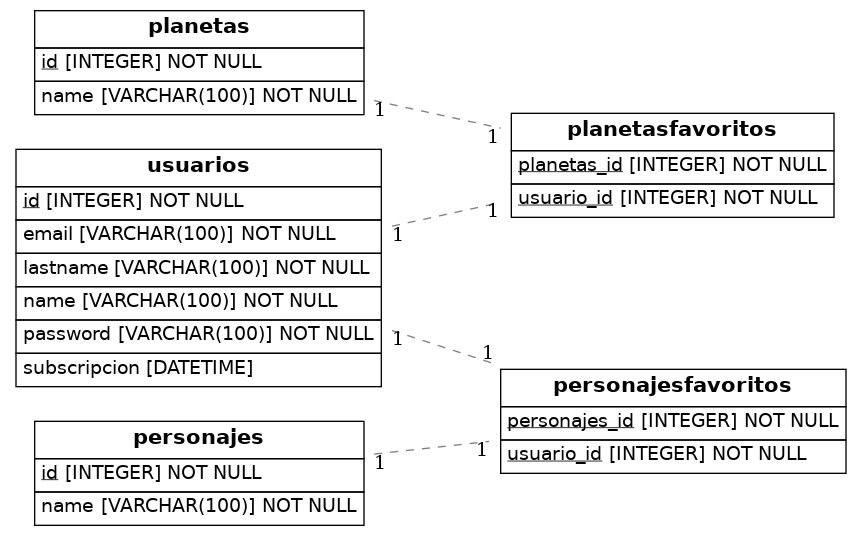
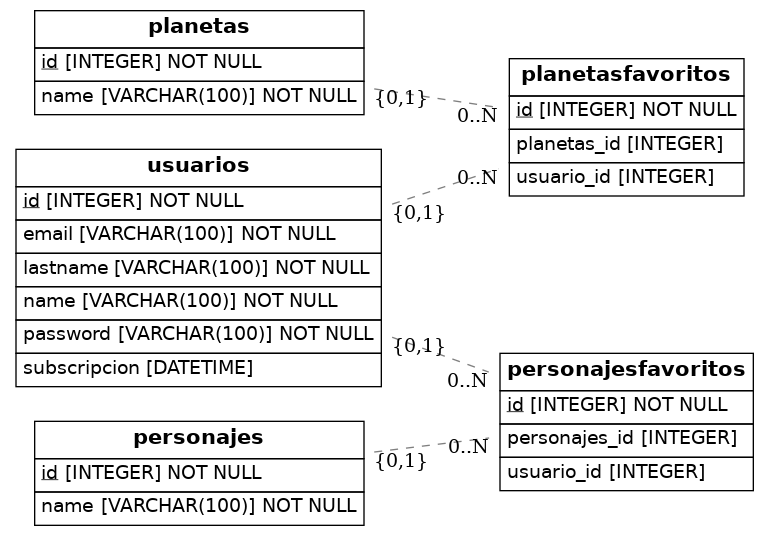
proyecto finalizado

diff --git a/src/models.py b/src/models.py
@@ -56,14 +56,16 @@ class Characters(Base):
 
 class Favoriteplanets(Base):
     __tablename__ = 'planetasfavoritos'
-    usuario_id = Column(Integer, ForeignKey('usuarios.id'), primary_key=True)
-    planetas_id = Column(Integer, ForeignKey('planetas.id'), primary_key=True)
+    id = Column(Integer, primary_key=True)
+    usuario_id = Column(Integer, ForeignKey('usuarios.id'))
+    planetas_id = Column(Integer, ForeignKey('planetas.id'))
 
 
 class Favoritecharacters(Base):
     __tablename__ = 'personajesfavoritos'
-    usuario_id = Column(Integer, ForeignKey('usuarios.id'), primary_key=True)
-    personajes_id = Column(Integer, ForeignKey('personajes.id'), primary_key=True)
+    id = Column(Integer, primary_key=True)
+    usuario_id = Column(Integer, ForeignKey('usuarios.id'))
+    personajes_id = Column(Integer, ForeignKey('personajes.id'))
     
 ## Draw from SQLAlchemy base
 render_er(Base, 'diagram.png')
